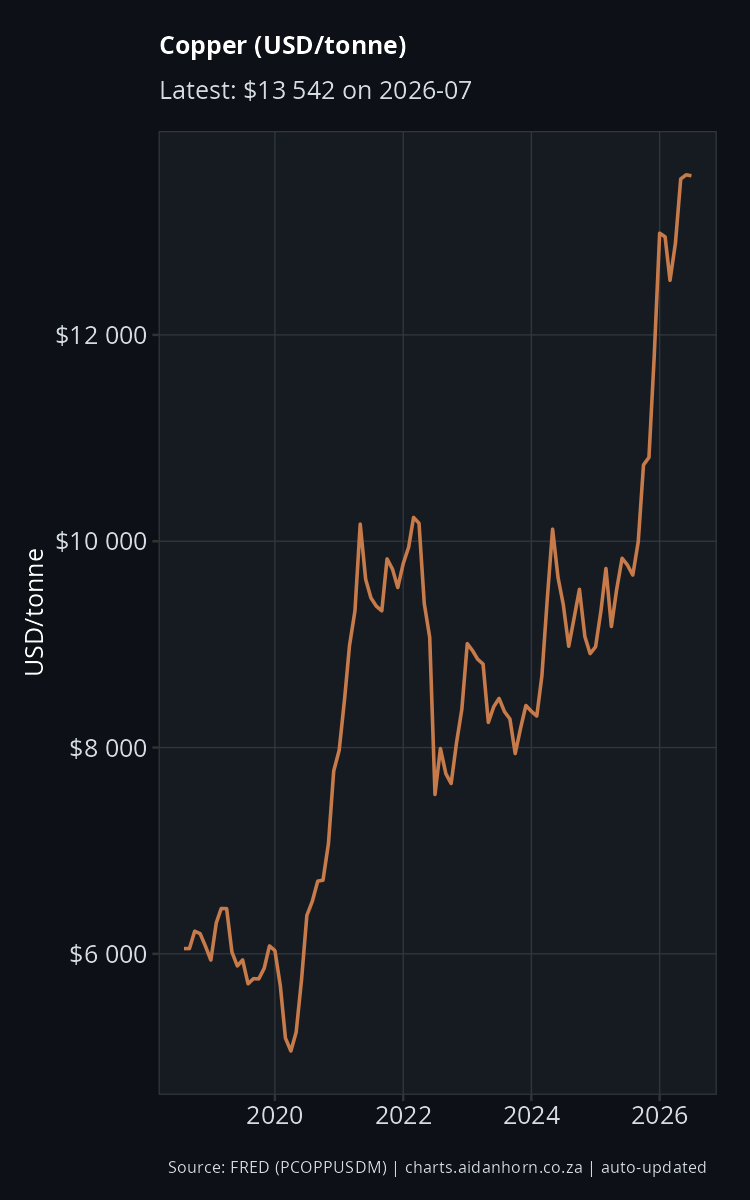
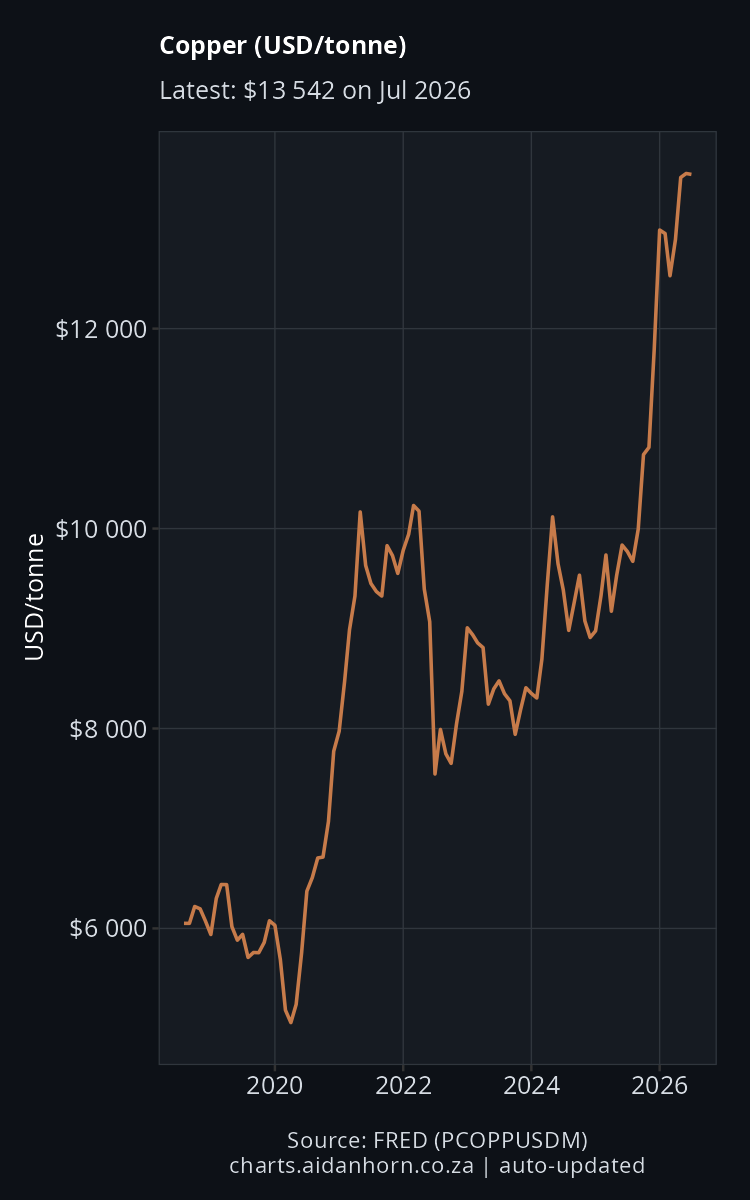
Mobile polish: wrapping nav, larger captions, edge-to-edge maps, date format
- Nav no longer scrolls horizontally on mobile (which hid items past the
  fold) - it wraps to two rows instead, with --nav-height adjusted to
  match, so every tab is visible without any interaction.
- Portrait chart captions bumped from 8pt to 11pt for legibility on
  mobile; the shared save_variants() helper auto-wraps the caption onto
  two lines when needed (ggplot2 doesn't auto-wrap), since the larger
  size otherwise overflows the narrower canvas on simple line charts.
- Portrait maps (climate/energy) now stretch to the image edges
  (near-zero left/right margin) instead of leaving dead space on both
  sides.
- Climate's two-line portrait subtitle gets more line-height for
  readability.
- Copper's "latest" date now shows "Jul 2026" (%b %Y) instead of
  "2026-07", since it's month-only precision.
- Commodities sub-nav label ("Commodities:") is whiter/more legible.

diff --git a/assets/style.css b/assets/style.css
@@ -56,8 +56,8 @@ nav a.home { color: var(--text); font-weight: 700; margin-right: 0.5rem; }
   z-index: 9;
 }
 .subnav .subnav-label {
-  color: var(--text-dim);
-  opacity: 0.6;
+  color: var(--text);
+  opacity: 0.85;
   font-size: 0.8rem;
   margin-right: 0.5rem;
 }
@@ -135,3 +135,33 @@ body.landing footer {
   padding-top: 1rem;
 }
 body.landing footer a { color: var(--link); }
+
+/* Mobile: the nav previously scrolled horizontally (overflow-x: auto),
+   which hid items past the fold - you had to know to scroll right to find
+   "Commodities". Wrap it onto two rows instead, so every tab is visible
+   immediately with no interaction needed. --nav-height grows to fit two
+   rows, and everything else (main's padding-top, the img max-height calc)
+   already derives from that variable, so nothing else needs to change. */
+@media (max-width: 700px) {
+  :root {
+    --nav-height: 96px;
+    --subnav-height: 52px;
+  }
+  nav {
+    flex-wrap: wrap;
+    overflow-x: visible;
+    white-space: normal;
+    padding: 0.4rem 0.5rem;
+    align-content: center;
+  }
+  nav a {
+    font-size: 0.85rem;
+    padding: 0.35rem 0.6rem;
+  }
+  .subnav {
+    flex-wrap: wrap;
+    overflow-x: visible;
+    white-space: normal;
+    align-content: center;
+  }
+}
